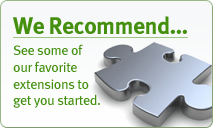
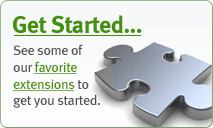
Usability adjustments.

diff --git a/mozilla/webtools/update/css/cavendish/content.css b/mozilla/webtools/update/css/cavendish/content.css
@@ -177,9 +177,19 @@
     margin-top: 0.2em;
 }
 
+.recommended {
+    clear: both;
+    padding: 1em 0;
+}
+
+.recommended h2 {
+    padding: 1em 0 0 0;
+    margin: 0;
+}
+
 .recommended-download h3 {
 	font: small tahoma, verdana, sans-serif;
-	margin: 5px 0 0 0;
+	margin: 0;
 	background: url("../../images/download.gif") 0 100%;
     font-size: small;
 	padding-bottom: 5px;
@@ -202,20 +212,14 @@
 }
 
 .recommended-download {
-    clear: left;
 	width: 200px;
-    padding: 5px;
-    float: left;
+    padding: 15px 0 0 215px;
 }
 
 .recommended-img {
     border: 2px outset #eee;
     float: left;
     margin: 1em 1em 0 0;
-}
-
-.recommended h2 {
-    padding-top: 1em;
 }
 
 .iconbar {

diff --git a/mozilla/webtools/update/recommended.php b/mozilla/webtools/update/recommended.php
@@ -49,74 +49,88 @@ installtrigger('extensions');
 ?>
 
 <div id="mBody">
-<h1>We Recommend</h1>
+<h1>Getting Started with Extensions</h1>
 <p>With over 300 extensions available for Firefox, there's something for everyone. To get you started, here's a list of some of our  recommended extensions that make use of popular online services.</p>
 
 <div class="recommended">
-
-<h2 class="clear-both"><a href="./extensions/moreinfo.php?id=735">Answers.com</a></h2>
 <img class="recommended-img" alt="" src="./images/recommended/answers.com.png"/>
-<p>Hold down Alt (or Option on a Mac) and click on any word to get a quick definition, an up-to-the-minute reference and more. You don't even need to highlight the word!</p>
+<h2><a href="./extensions/moreinfo.php?id=735">Answers.com</a></h2>
 <div class="recommended-download">
 <h3><a href="http://releases.mozilla.org/pub/mozilla.org/extensions/answers/answers-1.24-fx+fl.xpi" onclick="return install(event,'answers 1.24', '<?=WEB_PATH?>/images/default.png');" title="Install answers 1.24 (Right-Click to Download)">Install Extension (60 KB)</a></h3>
 </div>
+<p>Hold down Alt (or Option on a Mac) and click on any word to get a quick definition, an up-to-the-minute reference and more. You don't even need to highlight the word!</p>
+</div>
 
-<h2 class="clear-both"><a href="./extensions/moreinfo.php?id=1532">del.icio.us</a></h2>
+<div class="recommended">
 <img class="recommended-img" alt="" src="./images/recommended/del.icio.us.png"/>
-<p>Everything you need to seamlessly integrate del.icio.us with your  browser! Easy posting
-of new items, access to your saved items, and integration with the  Firefox search box.</p>
+<h2><a href="./extensions/moreinfo.php?id=1532">del.icio.us</a></h2>
 <div class="recommended-download">
 <h3><a href="http://releases.mozilla.org/pub/mozilla.org/extensions/del.icio.us/del.icio.us-1.0.2-fx.xpi" onclick="return install(event,'del.icio.us 1.0.2', '<?=WEB_PATH?>/images/default.png');" title="Install del.icio.us 1.0.2 (Right-Click to Download)">Install Extension (62 KB)</a> </h3>
 </div>
+<p>Everything you need to seamlessly integrate del.icio.us with your  browser! Easy posting
+of new items, access to your saved items, and integration with the  Firefox search box.</p>
+</div>
 
 
-<h2 class="clear-both"><a href="./extensions/moreinfo.php?id=219">FoxyTunes</a></h2>
+<div class="recommended">
 <img class="recommended-img" alt="" src="./images/recommended/foxytunes.jpg"/>
-<p>Do you listen to music while surfing the Web? Now you can control your favorite media player without ever leaving Firefox.</p>
+<h2><a href="./extensions/moreinfo.php?id=219">FoxyTunes</a></h2>
 <div class="recommended-download">
 <h3><a href="http://releases.mozilla.org/pub/mozilla.org/extensions/foxytunes/foxytunes-1.1.5.4-fx+mz+tb.xpi" onclick="return install(event,'FoxyTunes 1.1.5.4', '<?=WEB_PATH?>/images/default.png');" title="Install FoxyTunes 1.1.5.4 (Right-Click to Download)">Install Extension (200 KB)</a></h3>
 </div>
+<p>Do you listen to music while surfing the Web? Now you can control your favorite media player without ever leaving Firefox.</p>
+</div>
 
 
-<h2 class="clear-both"><a href="./extensions/moreinfo.php?id=1577">Kaboodle</a></h2>
+<div class="recommended">
 <img class="recommended-img" alt="" src="./images/recommended/kaboodle.jpg"/>
-<p>Collect and share information you find on the web using Kaboodle. One click extracts the web page's location, title, description (and even prices of items featured on that page) and adds it to a list you can share with others.</p>
+<h2><a href="./extensions/moreinfo.php?id=1577">Kaboodle</a></h2>
 <div class="recommended-download">
 <h3><a href="http://releases.mozilla.org/pub/mozilla.org/extensions/kaboodle/kaboodle-0.1-fx.xpi" onclick="return install(event,'Kaboodle Toolbar 0.1', '<?=WEB_PATH?>/images/default.png');" title="Install Kaboodle Toolbar 0.1 (Right-Click to Download)">Install Extension (11 KB)</a></h3>
 </div>
+<p>Collect and share information you find on the web using Kaboodle. One click extracts the web page's location, title, description (and even prices of items featured on that page) and adds it to a list you can share with others.</p>
+</div>
 
 
-<h2 class="clear-both"><a href="./extensions/moreinfo.php?id=1512">LinkedIn</a></h2>
+<div class="recommended">
 <img class="recommended-img" alt="" src="./images/recommended/linkedin.png"/>
-<p>Take advantage of the LinkedIn Companion for Firefox to easily search  for professionals or jobs. LinkedIn is an online network of more than  4 million experienced professionals from around the world.</p>
+<h2><a href="./extensions/moreinfo.php?id=1512">LinkedIn</a></h2>
 <div class="recommended-download">
 <h3><a href="http://releases.mozilla.org/pub/mozilla.org/extensions/linkedin_companion_for_firefox/linkedin_companion_for_firefox-1.1-fx+mz.xpi" onclick="return install(event,'LinkedIn 1.1', '<?=WEB_PATH?>/images/default.png');" title="Install LinkedIn 1.1 (Right-Click to Download)">Install Extension (82 KB)</a></h3>
 </div>
+<p>Take advantage of the LinkedIn Companion for Firefox to easily search  for professionals or jobs. LinkedIn is an online network of more than  4 million experienced professionals from around the world.</p>
+</div>
 
-<h2 class="clear-both"><a href="./extensions/moreinfo.php?id=1538">PayPal</a></h2>
+<div class="recommended">
 <img class="recommended-img" alt="" src="./images/recommended/paypal1.png"/>
-<p>PayPal's Send Money extension provides a quick way to send money to  anyone with an email address. Enter the payment information and  you'll be brought to your PayPal login page to sign in and complete the payment.</p>
+<h2><a href="./extensions/moreinfo.php?id=1538">PayPal</a></h2>
 <div class="recommended-download">
 <h3><a href="http://releases.mozilla.org/pub/mozilla.org/extensions/paypal_send_money/paypal_send_money-1.0.1-fx.xpi" onclick="return install(event,'PayPal 1.0.1', '<?=WEB_PATH?>/images/default.png');" title="Install PayPal 1.0.1 (Right-Click to Download)">Install Extension (52 KB)</a></h3>
 </div>
+<p>PayPal's Send Money extension provides a quick way to send money to  anyone with an email address. Enter the payment information and  you'll be brought to your PayPal login page to sign in and complete the payment.</p>
+</div>
 
-<h2 class="clear-both"><a href="./extensions/moreinfo.php?id=77">Sage</a></h2>
+<div class="recommended">
 <img class="recommended-img" alt="" src="./images/recommended/sage.png"/>
-<p>Sage is a lightweight Web feed reader for Mozilla Firefox. It's got a  lot of what you need and not much of what you don't. Supports RSS,  Atom, automatic feed discovery, and full integration with Firefox's Live Bookmarks.</p>
+<h2><a href="./extensions/moreinfo.php?id=77">Sage</a></h2>
 <div class="recommended-download">
 <h3><a href="http://releases.mozilla.org/pub/mozilla.org/extensions/sage/sage-1.3.6-fx+mz.xpi" onclick="return install(event,'sage 1.3.6', '<?=WEB_PATH?>/images/default.png');" title="Install Sage 1.3.6 (Right-Click to Download)">Install Extension (132 KB)</a></h3>
 </div>
+<p>Sage is a lightweight Web feed reader for Mozilla Firefox. It's got a  lot of what you need and not much of what you don't. Supports RSS,  Atom, automatic feed discovery, and full integration with Firefox's Live Bookmarks.</p>
+</div>
 
-<h2 class="clear-both"><a href="./extensions/moreinfo.php?id=138">StumbleUpon</a></h2>
+<div class="recommended">
 <img class="recommended-img" alt="" src="./images/recommended/stumble3.png"/>
-<p>Break out of your web routine with this extension. StumbleUpon helps you find great new peer-reviewed sites through a collaborative site sharing and review system.</p>
+<h2><a href="./extensions/moreinfo.php?id=138">StumbleUpon</a></h2>
 <div class="recommended-download">
 <h3><a href="http://releases.mozilla.org/pub/mozilla.org/extensions/stumbleupon/stumbleupon-2.2-fx+fl+mz+ns.xpi" onclick="return install(event,'stumbleupon 2.2', '<?=WEB_PATH?>/images/default.png');" title="Install stumbleupon 2.2 (Right-Click to Download)">Install Extension (103 KB)</a></h3>
+</div>
+<p>Break out of your web routine with this extension. StumbleUpon helps you find great new peer-reviewed sites through a collaborative site sharing and review system.</p>
 </div>
 
 <?php
 /*
-<h2 class="clear-both"><a href="./extensions/moreinfo.php?id=1035">Weather Channel</a></h2>
+<h2><a href="./extensions/moreinfo.php?id=1035">Weather Channel</a></h2>
 <img class="recommended-img" alt="" src="./images/recommended/1clickweather.png"/>
 <p>1-ClickWeather enables you to quickly view current weather conditions  and up to 5 days of forecast information, plus instant access to detailed and  customized weather content from weather.com.</p>
 <div class="recommended-download">
